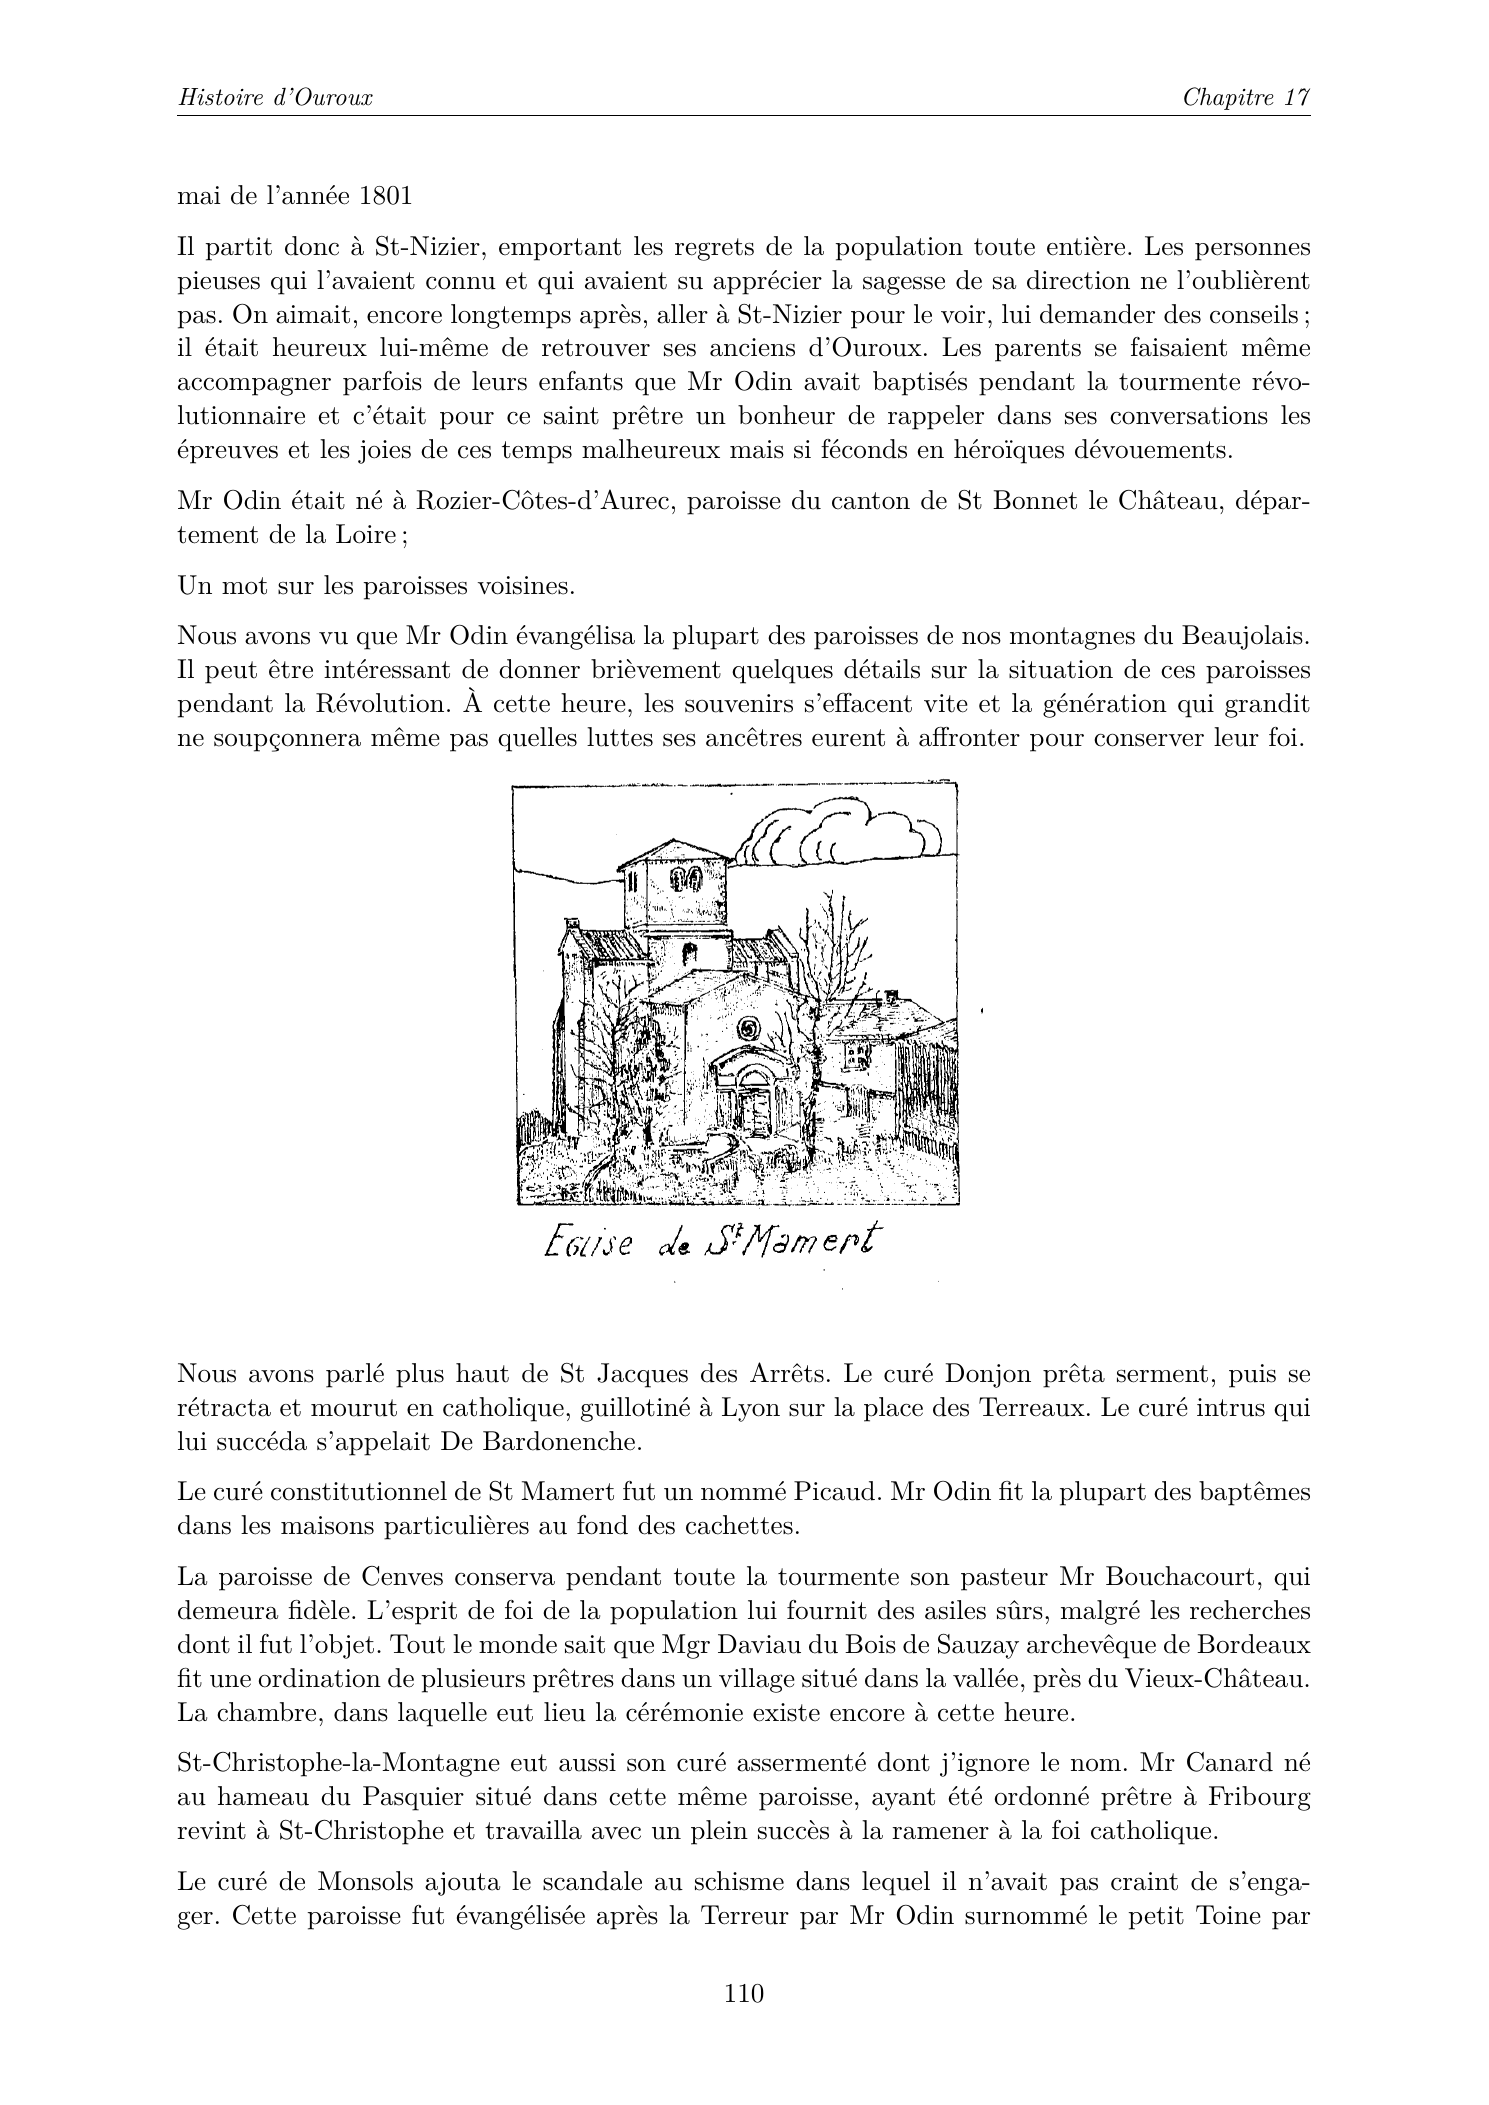
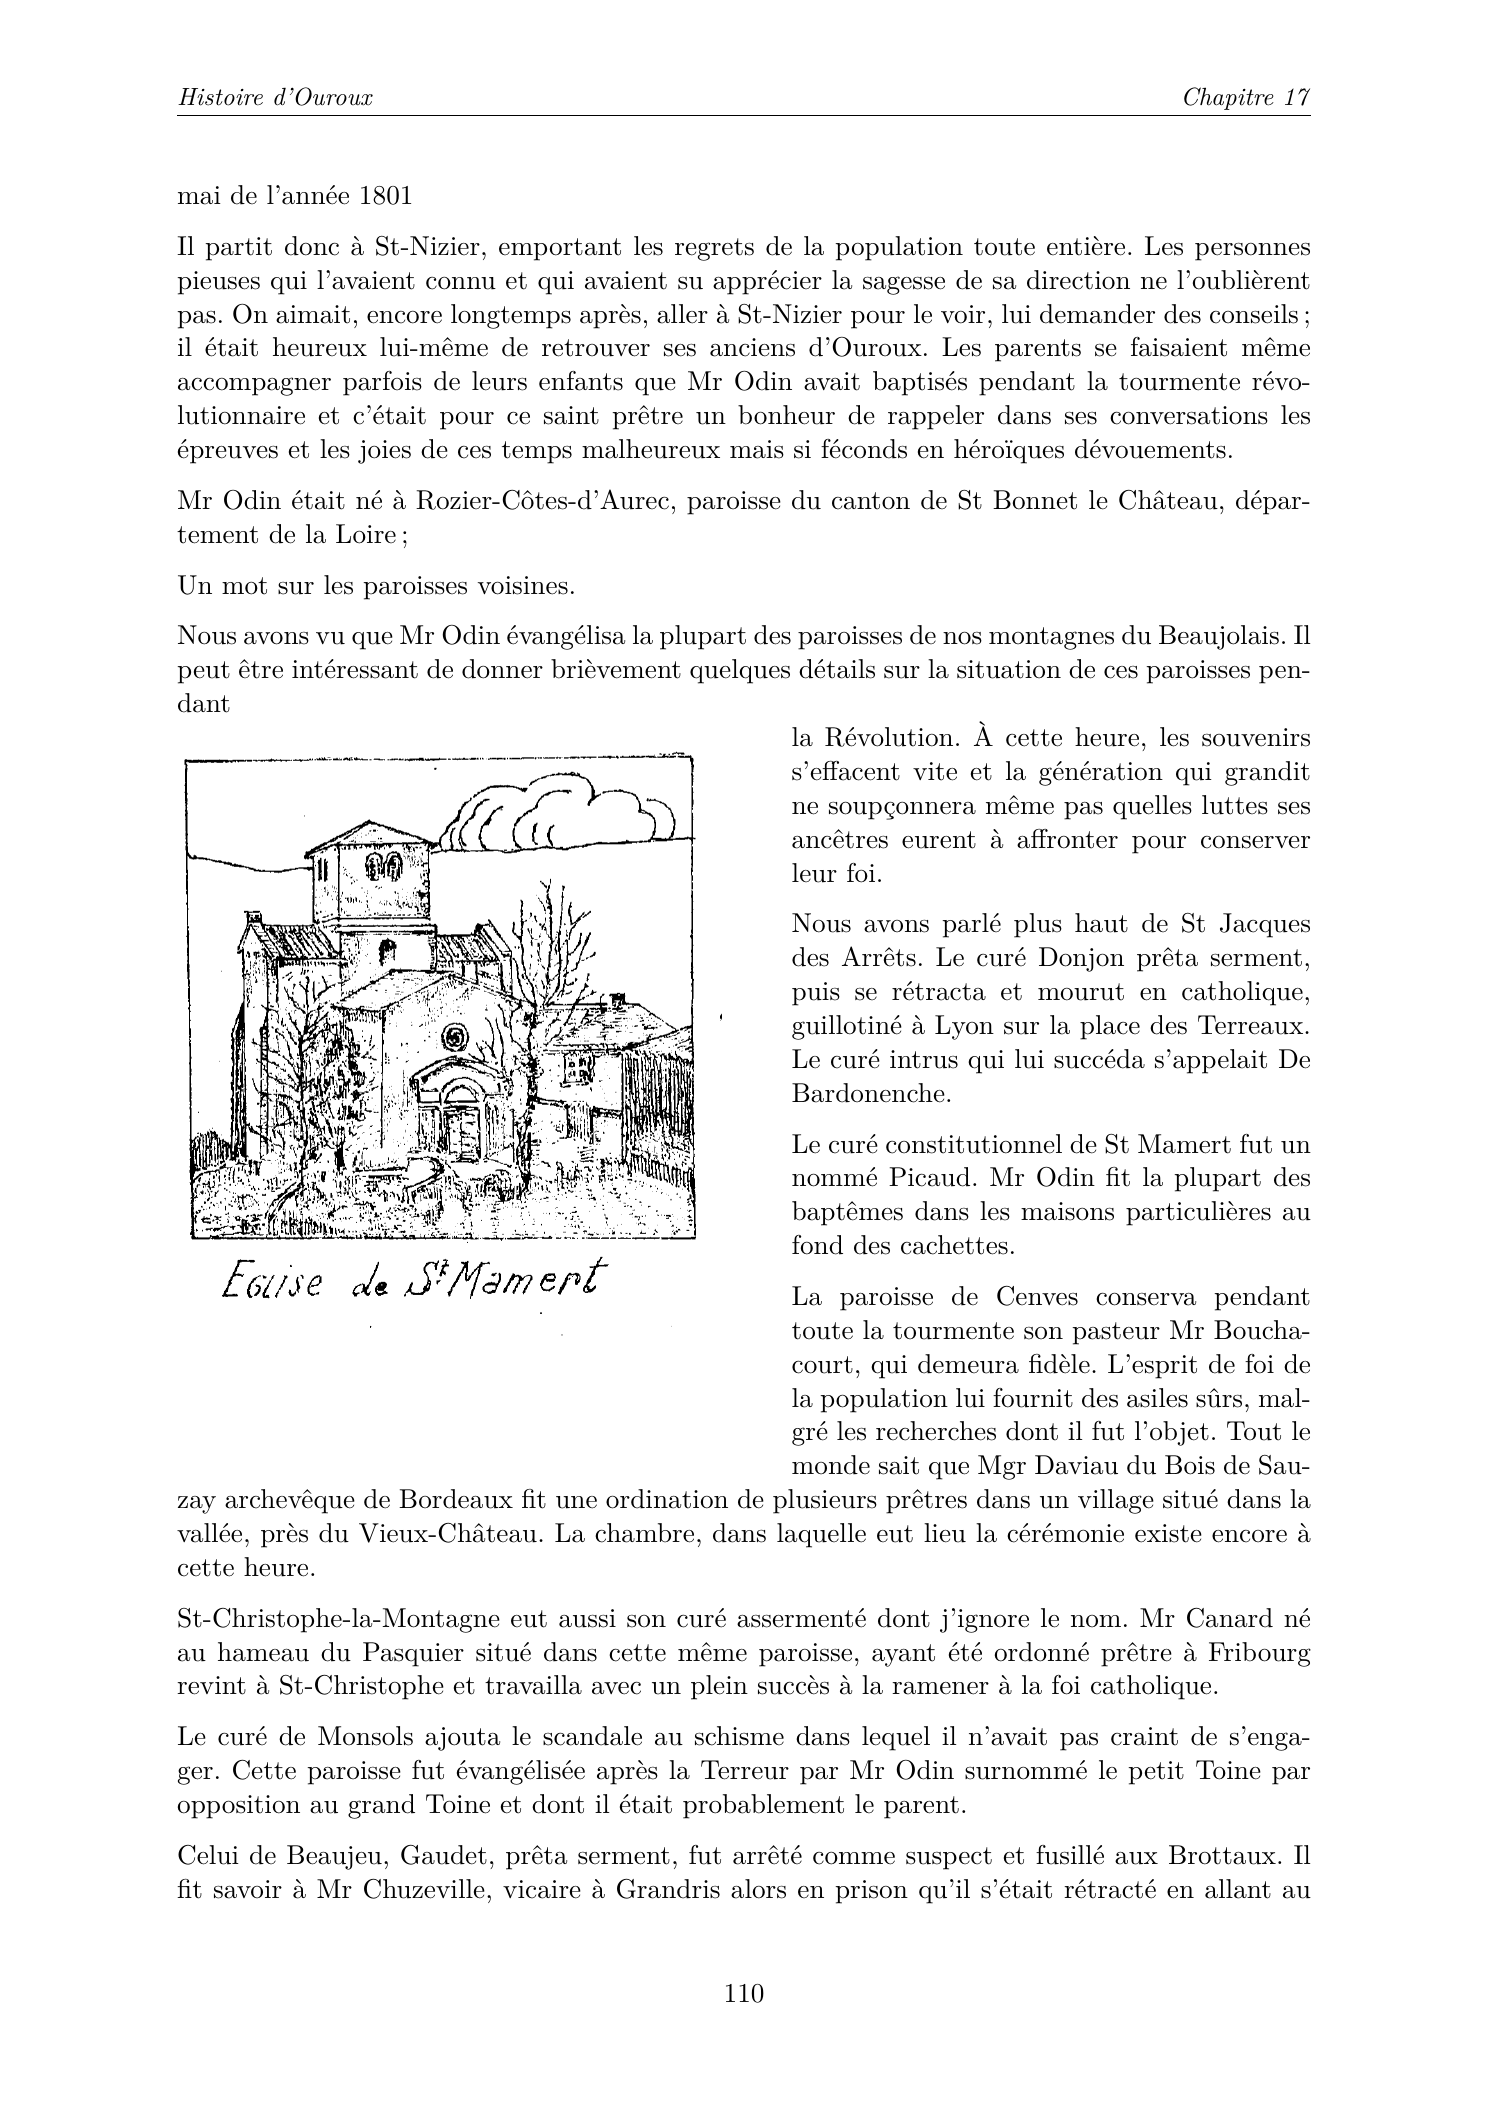
fix: reproduire le placement de Saint-Mamert

Changed region(s): [[0.1236, 0.2779, 0.8959, 0.9264]]

diff --git a/Chapitres/17-revolution.tex b/Chapitres/17-revolution.tex
@@ -318,11 +318,14 @@ Mr Odin était né à Rozier-Côtes-d'Aurec, paroisse du canton de St Bonnet le 
 
 Un mot sur les paroisses voisines.
 
-Nous avons vu que Mr Odin évangélisa la plupart des paroisses de nos montagnes du Beaujolais. Il peut être intéressant de donner brièvement quelques détails sur la situation de ces paroisses pendant la Révolution. À cette heure, les souvenirs s'effacent vite et la génération qui grandit ne soupçonnera même pas quelles luttes ses ancêtres eurent à affronter pour conserver leur foi.
+Nous avons vu que Mr Odin évangélisa la plupart des paroisses de nos montagnes du Beaujolais. Il peut être intéressant de donner brièvement quelques détails sur la situation de ces paroisses pendant
+\begin{wrapfigure}{l}{0.52\textwidth}
+    \vspace{-0.5\baselineskip}
+    \includegraphics[width=0.48\textwidth]{Illustrations/illus-revolution-saint-mamert.png}
+\end{wrapfigure}
+la Révolution. À cette heure, les souvenirs s'effacent vite et la génération qui grandit ne soupçonnera même pas quelles luttes ses ancêtres eurent à affronter pour conserver leur foi.
 
-\begin{center}
-\includegraphics[width=0.42\textwidth]{Illustrations/illus-revolution-saint-mamert.png}
-\end{center}
+\par
 
 Nous avons parlé plus haut de St Jacques des Arrêts. Le curé Donjon prêta serment, puis se rétracta et mourut en catholique, guillotiné à Lyon sur la place des Terreaux. Le curé intrus qui lui succéda s'appelait De Bardonenche.
 
